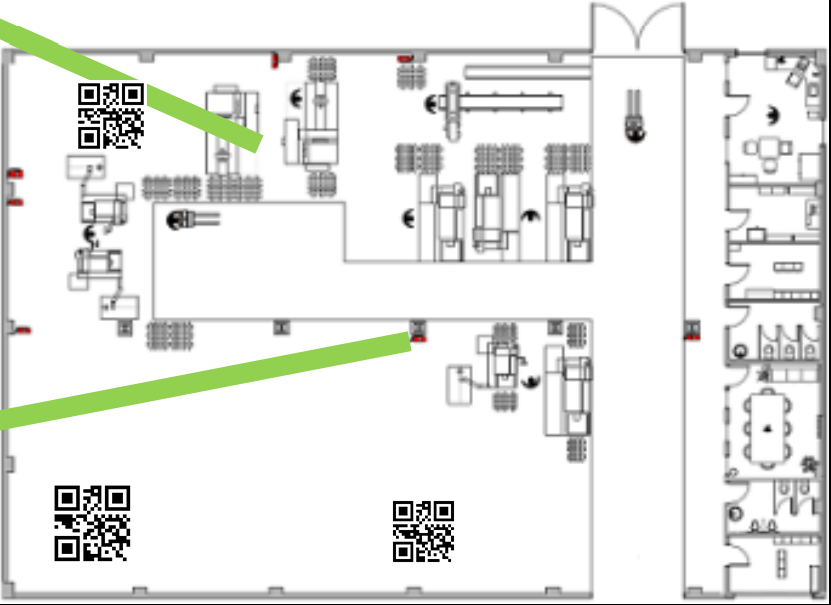
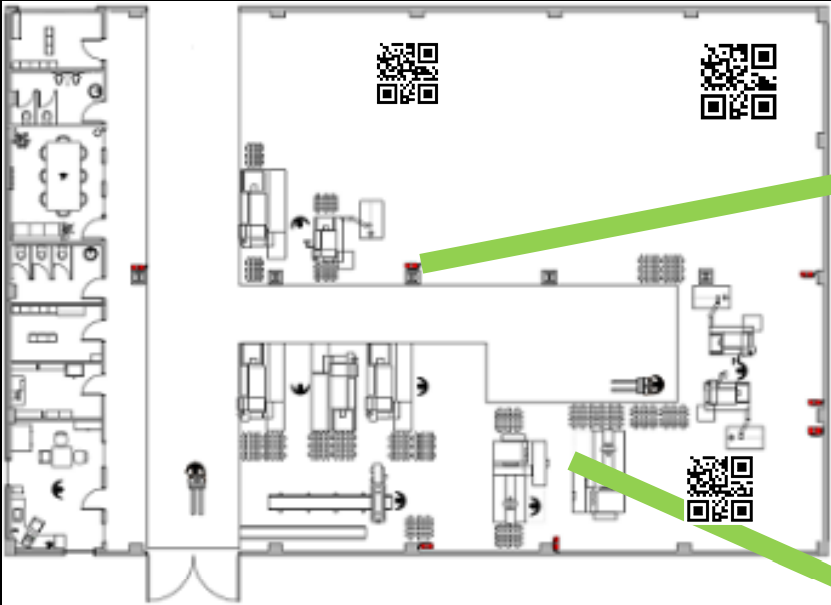
QR Position
Multiply QR Codes in Picture
Objects als Child der Areas
Bugfixing

diff --git a/Software/CarrierTracking/Assets/Scripts/VisualStations/CarrierHandler.cs b/Software/CarrierTracking/Assets/Scripts/VisualStations/CarrierHandler.cs
@@ -9,8 +9,10 @@ public class CarrierHandler : MonoBehaviour
 {
     public GameObject sampleCarrier;
     public GameObject AreasParent;
-    public float cycleTime = 30.0f;
+    public float cycleTime = 5.0f;
     public string ImgPath = "Assets//CameraPics//";
+    private List <GameObject> CarrierList = new List <GameObject>();
+
 
     static bool settingChanged = false;
     
@@ -54,7 +56,7 @@ public class CarrierHandler : MonoBehaviour
     void RestartInvoke()
     {
         CancelInvoke();
-        InvokeRepeating("checkForPic", 5, cycleTime);
+        InvokeRepeating("checkForPic", 5, 5);
     }
 
     void checkForPic()
@@ -96,6 +98,7 @@ public class CarrierHandler : MonoBehaviour
                             var imgY = image.Height;
 
                             fileStream.Close();
+                            
 
                             //calc position and place GameObject relative to the image
                             calcQR(qr, imgX, imgY);
@@ -109,22 +112,37 @@ public class CarrierHandler : MonoBehaviour
     void calcQR(string qrImage, float imgX, float imgY)
     {
         var qrCodes = QrCodeRecognition.getCodesFromPic(qrImage);
+        Debug.Log(qrCodes.Count);
 
         //float maxX = 831.0f;
         //float maxY = 605.0f;
 
         float maxX = imgX;
         float maxY = imgY;
-        float rotation = 0.0f;
+        //float rotation = 0.0f;
 
-        float percentX = 1, percentY = 1;
+        //float percentX = 1, percentY = 1;
 
-        foreach (var qrCode in qrCodes)
+        //foreach (var qrCode in qrCodes)
+        //{
+        //    percentX = 100.0f / maxX * qrCode.X;
+        //    percentY = 100.0f / maxY * qrCode.Y;
+        //    rotation = qrCode.Degree;
+        //}
+
+
+        float[] percentX = new float[qrCodes.Count];
+        float[] percentY = new float[qrCodes.Count];
+        float[] rotation = new float[qrCodes.Count];
+
+        for (int i = 0; i < qrCodes.Count; i++)
         {
-            percentX = 100.0f / maxX * qrCode.X;
-            percentY = 100.0f / maxY * qrCode.Y;
-            rotation = qrCode.Degree;
+            percentX[i] = 100.0f / maxX * qrCodes[i].X;
+            percentY[i] = 100.0f / maxY * qrCodes[i].Y;
+            rotation[i] = qrCodes[i].Degree;
+
         }
+
         //percentX = 23;
         //percentY = 24;
 
@@ -134,11 +152,36 @@ public class CarrierHandler : MonoBehaviour
             PositionRelativeTo(sampleCarrier, area, percentX, percentY, rotation);
         }
         */
+        foreach (GameObject carrier in CarrierList)
+        {
+            Destroy(carrier);
+                    }
 
+
+        CarrierList.Clear();
+        Debug.Log(StationHandler.GetAllAreas().Count);
+
+        foreach (GameObject area in StationHandler.GetAllAreas())
+        {
+
+            for (int i = 0; i < qrCodes.Count; i++)
+            {
+                GameObject sampleCarrierClone = Instantiate(sampleCarrier);
+                CarrierList.Add(Instantiate(sampleCarrier));
+                PositionRelativeTo(CarrierList[CarrierList.Count -1 ], area, percentX[i], percentY[i], rotation[i]);
+                
+                
+            }
+
+        }
+
+        /*
         foreach (GameObject area in StationHandler.GetAllAreas())
         {
             PositionRelativeTo(sampleCarrier, area, percentX, percentY, rotation);
         }
+
+        */
 
         //after getting position and rotation of carrier, delete everything from folder
         DeletePic(dInfo);
@@ -175,13 +218,18 @@ public class CarrierHandler : MonoBehaviour
             }
         }
 
+        
+
+
         //carrier position
         carrier.transform.position = area.transform.position;
         carrier.transform.position = new Vector3(carrier.transform.position.x + offsetX,
-            area.transform.position.y + (carrier.transform.localScale.y / 2), carrier.transform.position.z - offsetZ);
+         area.transform.position.y + (carrier.transform.localScale.y / 2), carrier.transform.position.z - offsetZ);
 
         //carrier rotation
         carrier.transform.rotation = Quaternion.Euler(0, obj_rotation, 0);
+
+        carrier.transform.parent = area.transform;
     }
 
     //delete all files from directory
